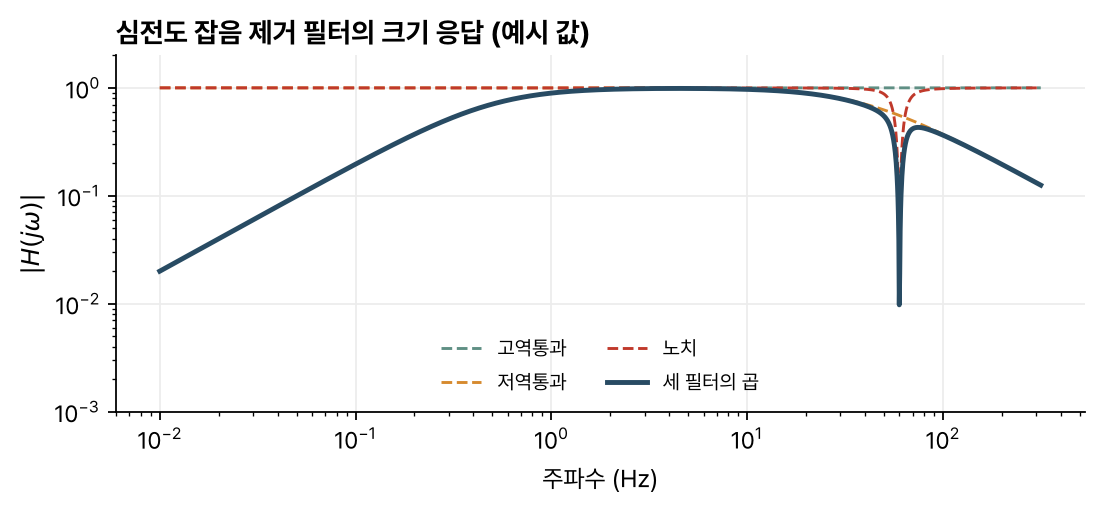
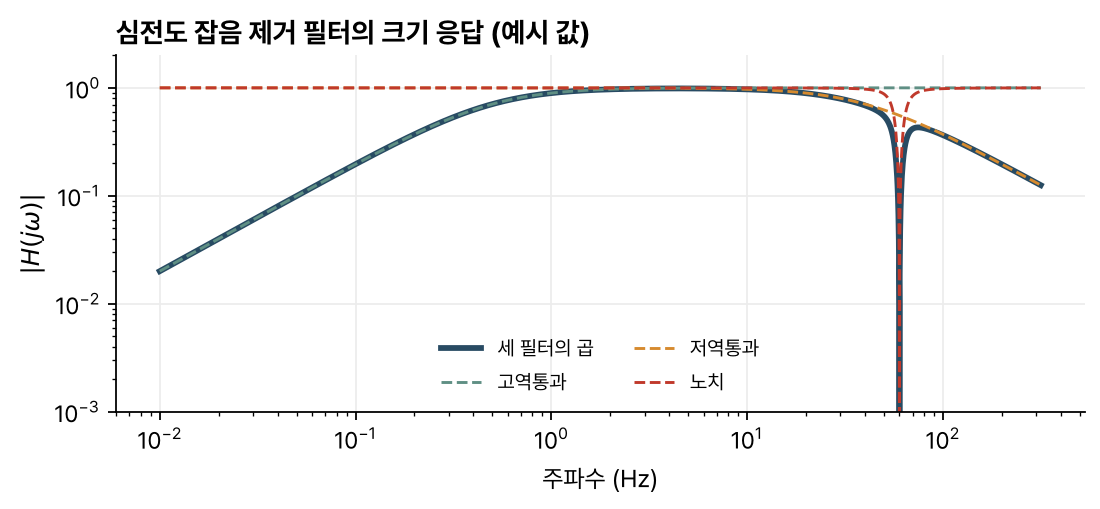
Fix review findings in 6.003 Fourier applications note
Claude-Session: https://claude.ai/code/session_01DRUnFxFn4g3T7a1hqi5YWp

diff --git a/scripts/figures/fourier_applications.py b/scripts/figures/fourier_applications.py
@@ -1,8 +1,8 @@
 """MIT 6.003 푸리에 변환의 응용 문서의 그림.
 
 RC 저역통과 필터에 사각파를 넣은 출력을 푸리에 급수로 계산하고, 심전도 잡음 제거용
-필터(고역통과 + 저역통과 + 노치)의 크기 응답을 그린다. 필터의 차단 주파수와 노치의
-감쇠는 예로 정한 값이다(고역 0.5 Hz, 저역 40 Hz, 노치 60 Hz). 값은 모두 직접 계산했다.
+필터(고역통과 + 저역통과 + 노치)의 크기 응답을 그린다. 고역 0.5 Hz, 저역 40 Hz 차단 주파수와
+노치의 폭(Q = 5)은 예로 정한 값이고, 노치 주파수 60 Hz는 강의 자료를 따른다. 값은 모두 직접 계산했다.
 """
 
 import numpy as np
@@ -32,17 +32,18 @@ fig.tight_layout()
 save(fig, ARTICLE, "rc-square-wave.png")
 
 # 심전도 필터의 크기 응답
-f = np.logspace(-2, 2.5, 2000)
+f = np.sort(np.append(np.logspace(-2, 2.5, 2000), 60.0))
 s = 2j * np.pi * f
 wh, wl, wn = 2 * np.pi * 0.5, 2 * np.pi * 40, 2 * np.pi * 60
 hp = s / (s + wh)
 lp = wl / (s + wl)
 notch = (s**2 + wn**2) / (s**2 + (wn / 5) * s + wn**2)
 fig, ax = plt.subplots(figsize=(7, 3.3))
+floor = 1e-4
+ax.loglog(f, np.maximum(np.abs(hp * lp * notch), floor), color=BLUE, lw=2.6, label="세 필터의 곱")
 ax.loglog(f, np.abs(hp), color=TEAL, lw=1.3, ls="--", label="고역통과")
 ax.loglog(f, np.abs(lp), color=ORANGE, lw=1.3, ls="--", label="저역통과")
-ax.loglog(f, np.abs(notch), color=RED, lw=1.3, ls="--", label="노치")
-ax.loglog(f, np.abs(hp * lp * notch), color=BLUE, lw=2.2, label="세 필터의 곱")
+ax.loglog(f, np.maximum(np.abs(notch), floor), color=RED, lw=1.3, ls="--", label="노치")
 ax.set_ylim(1e-3, 2)
 ax.set_xlabel("주파수 (Hz)")
 ax.set_ylabel("$|H(j\\omega)|$")

diff --git a/content/courses/mit-6003/fourier-applications.md b/content/courses/mit-6003/fourier-applications.md
@@ -39,7 +39,7 @@ $$
 
 입력으로 $\pm\frac12$를 오가는 주기 $T$의 사각파를 넣는다. 사각파의 [[fourier-series|푸리에 급수]] 계수는 홀수 $k$에서 $a_k = \frac{1}{j\pi k}$, 짝수 $k$에서 0이고, 기본 주파수는 $\omega_0 = 2\pi/T$다. 출력의 계수는 $a_k H(jk\omega_0)$이다.
 
-- $\omega_0 \ll 1/RC$: 대부분의 고조파가 통과대역에 있어 출력이 사각파와 비슷하다. 모서리만 조금 둥글다.
+- $\omega_0 \ll 1/RC$: 진폭이 큰 낮은 고조파가 통과대역에 있어 출력이 사각파와 비슷하다. 모서리만 조금 둥글다.
 - $\omega_0 \approx 1/RC$: 높은 고조파가 줄어 모서리가 지수 곡선으로 바뀐다.
 - $\omega_0 \gg 1/RC$: 모든 고조파가 $1/k\omega_0 RC$로 줄고 위상이 $-\pi/2$ 가까이 밀려 출력이 작은 삼각파에 가까워진다. 이 대역에서 $H(j\omega) \approx 1/j\omega RC$이므로 RC 회로는 적분기처럼 동작한다(강의 자료 밖의 설명).
 
@@ -48,16 +48,19 @@ $$
 
 ## 심전도 잡음 제거
 
-심전도는 심장이 만드는 전위를 가슴 표면에서 잰 기록이다. 피부의 전극은 심장 신호 말고도 다른 전기 신호를 함께 잡는다. 강의 자료는 약 60초 길이의 심전도 기록을 푸리에 변환해 성분을 셋으로 나눈다.
+심전도는 심장이 만드는 전위를 가슴 표면에서 잰 기록이다. 피부의 전극은 심장 신호 말고도 다른 전기 신호를 함께 잡는다. 강의 자료는 약 60초 길이의 심전도 기록을 푸리에 변환해 스펙트럼에 네 영역을 표시한다.
 
-- 낮은 주파수 잡음: 기준선이 천천히 흔들리는 성분
-- 심장 신호: 그 사이 대역
-- 높은 주파수 잡음: 넓은 대역의 잡음과 60 Hz 전원 성분
+- 낮은 주파수 잡음
+- 심장 신호
+- 높은 주파수 잡음
+- 60 Hz 성분
 
-이에 맞춰 낮은 주파수를 막는 고역통과 필터, 높은 주파수를 막는 저역통과 필터, 60 Hz 하나를 막는 **노치 필터**를 잇는다. 극점과 영점으로 보면 고역통과 필터는 원점의 영점과 음의 실수축 위 원점 가까운 극점이다. 저역통과 필터는 원점에서 먼 음의 실수축 위 극점이다. 노치 필터는 $j\omega$축 위 $\pm j2\pi\cdot 60$의 영점 한 쌍과, 그 바로 왼쪽의 극점 한 쌍이다. 영점이 $j\omega$축 위에 있어 그 주파수의 크기가 0이 되고, 가까운 극점이 다른 주파수의 크기를 1 근처로 되돌린다(극점과 영점의 위치에 대한 설명은 강의 자료 밖의 정리).
+낮은 주파수 잡음은 기준선이 천천히 흔들리는 성분이고 60 Hz 성분은 전원에서 온다는 설명은 강의 자료 밖의 내용이다.
+
+이에 맞춰 낮은 주파수를 막는 고역통과 필터, 높은 주파수를 막는 저역통과 필터, 60 Hz 하나를 막는 **노치 필터**를 잇는다. 강의 자료는 극점과 영점을 세 필터에 나눠 표시한다. 고역통과 필터는 원점의 영점과 음의 실수축 위 원점 가까운 극점이다. 저역통과 필터는 원점에서 먼 음의 실수축 위 극점이다. 노치 필터는 $j\omega$축 위 $\pm j2\pi\cdot 60$의 영점 한 쌍과, 그 왼쪽 가까이에 놓인 극점 한 쌍이다. 영점이 $j\omega$축 위에 있어 그 주파수의 크기가 0이 되고, 가까운 극점이 다른 주파수의 크기를 1 근처로 되돌린다(각 근의 구체적인 위치와 역할 설명은 강의 자료 밖의 정리이고, 강의 자료의 그림에는 겹근 표시가 있다).
 
 ![[../../images/fourier-applications/ecg-filter.png]]
-*그림 2. 고역통과(1차, 0.5 Hz), 저역통과(1차, 40 Hz), 60 Hz 노치 필터와 세 필터를 곱한 전체 필터의 크기 응답. 차단 주파수와 노치의 폭은 예로 정한 값이고, 강의 자료의 필터 값과 다르다. 노치 필터의 크기는 60 Hz에서 0이다. 직접 계산한 값이다.*
+*그림 2. 고역통과(1차, 0.5 Hz), 저역통과(1차, 40 Hz), 60 Hz 노치 필터와 세 필터를 곱한 전체 필터의 크기 응답. 차단 주파수와 노치의 폭은 강의 자료의 필터를 옮긴 것이 아니라 예로 정한 값이다. 노치 필터의 크기는 60 Hz에서 0이다. 직접 계산한 값이다.*
 
 ## 회절
 
@@ -69,11 +72,11 @@ $$
 
 먼 곳에는 점이 주기적으로 늘어선 무늬가 생긴다.
 
-강의 자료는 CD와 DVD로 이 식을 쓴다. 파장 500 nm의 레이저 포인터를 CD에 비추고 3 ft 떨어진 화면에서 첫 번째 점이 1 ft 옆에 생기면 $\tan\theta = 1/3$, $\theta \approx 0.32$, $\sin\theta \approx 0.31$이다. 트랙 간격은 $D = \lambda/\sin\theta \approx 1613$ nm로 규격값 1600 nm에 가깝다. DVD는 1 ft 떨어진 화면에서 1 ft 옆에 점이 생겨 $\theta \approx 0.78$, $\sin\theta \approx 0.71$이고, $D \approx 704$ nm로 규격값 740 nm에 가깝다. DVD의 트랙 간격은 CD의 약 절반이다. 반올림하지 않은 $\sin\theta$를 쓰면 CD는 약 1581 nm, DVD는 약 707 nm다(직접 계산한 값). 강의 자료는 이 예를 먼 곳의 거시적인 무늬에서 보이지 않는 미세 구조의 정보를 얻는 예로 든다.
+강의 자료는 CD와 DVD로 이 식을 쓴다. 파장 500 nm의 레이저 포인터를 CD에 비추고 3 ft 떨어진 화면에서 첫 번째 점이 1 ft 옆에 생기면 $\tan\theta = 1/3$, $\theta \approx 0.32$, $\sin\theta \approx 0.31$이다. 트랙 간격은 $D = \lambda/\sin\theta \approx 1613$ nm로 규격값 1600 nm에 가깝다. DVD는 1 ft 떨어진 화면에서 1 ft 옆에 점이 생겨 $\theta \approx 0.78$, $\sin\theta \approx 0.71$이고, $D \approx 704$ nm로 규격값 740 nm에 가깝다. DVD의 트랙 간격은 CD의 약 절반이다. 반올림하지 않은 $\sin\theta$를 쓰면 CD는 약 1581 nm, DVD는 약 707 nm다(직접 계산한 값). 강의 자료는 이 실험으로 먼 곳의 거시적인 무늬에서 보이지 않는 미세 구조의 정보를 얻을 수 있음을 보인다.
 
 ## X선 결정학
 
-산란체가 격자보다 복잡하면 각도 $\theta$에서 본 빛에는 물체의 모든 부분이 기여한다. 위치 $x$에서 산란된 빛은 원점에서 산란된 빛보다 $\phi = -2\pi x\sin\theta/\lambda$만큼 위상이 늦다. 물체의 산란 분포를 $f(x)$라 하면 각도 $\theta$의 빛은
+산란체가 격자보다 복잡하면 각도 $\theta$에서 본 빛에는 물체의 모든 부분이 기여한다. 위치 $x$에서 산란된 빛은 원점에서 산란된 빛보다 위상이 $2\pi x\sin\theta/\lambda$만큼 늦어, 상대 위상은 $\phi = -2\pi x\sin\theta/\lambda$다. 물체의 산란 분포를 $f(x)$라 하면 각도 $\theta$의 빛은
 
 $$
 F(\theta) = \int f(x)e^{-j2\pi x\sin\theta/\lambda}\,dx
@@ -91,17 +94,17 @@ $$
 x(t) = \sum_{k=-\infty}^{\infty}\delta(t - kT) \quad\Longleftrightarrow\quad X(j\omega) = \sum_{k=-\infty}^{\infty}\frac{2\pi}{T}\,\delta\!\left(\omega - k\frac{2\pi}{T}\right)
 $$
 
-먼 곳의 무늬는 간격이 $2\pi/D$에 비례하는 점의 열이고, 격자 간격이 좁을수록 점 사이가 넓다.
+먼 곳의 무늬는 $\omega$ 축에서 간격 $2\pi/D$(각도로는 $\sin\theta$ 간격 $\lambda/D$)인 점의 열이고, 격자 간격이 좁을수록 점 사이가 넓다.
 
-강의 자료는 이 관계의 예로 Franklin과 Gosling이 1953년에 발표한 DNA의 X선 회절 사진을 든다. 강의 자료의 해석은 이렇다. 높은 주파수 쪽의 띠는 염기쌍이 반복되는 간격 $b$에 대응하고 $1/b$ 위치에 나타난다. 낮은 주파수 쪽의 띠는 더 긴 반복 간격 $h$에 대응하고, 띠의 기울기는 그 반복 구조의 기울기에 대응하며, 강의 자료는 이 기울어진 반복 구조를 이중 나선으로 해석한다.
+강의 자료는 이 관계의 예로 Franklin과 Gosling이 1953년에 발표한 DNA의 X선 회절 사진을 들고 이렇게 해석한다. 높은 주파수 쪽의 띠는 염기쌍이 반복되는 간격 $b$에 대응하고 $1/b$ 위치에 나타난다. 낮은 주파수 쪽의 띠는 더 긴 반복 간격 $h$에 대응하고, 띠의 기울기는 그 반복 구조의 기울기에 대응하며, 강의 자료는 이 기울어진 반복 구조를 이중 나선으로 해석한다.
 
 ## 유의점
 
 - LTI 시스템은 새 주파수를 만들지 못한다. 출력에 입력에 없던 주파수가 있으면 시스템이 비선형이거나 시변이다(강의 자료 밖의 설명).
-- RC 회로를 적분기로 쓸 수 있는 범위는 $\omega \gg 1/RC$인 대역이고, 그 대역에서는 출력의 크기도 $1/\omega RC$로 함께 줄어든다.
+- RC 회로를 적분기로 쓸 수 있는 범위는 $\omega \gg 1/RC$인 대역이고, 그 대역에서는 출력의 크기도 $1/\omega RC$로 함께 줄어든다(강의 자료 밖의 설명).
 - 노치 필터의 영점을 $j\omega$축 위에 두면 그 주파수가 완전히 막힌다. 극점을 영점에서 멀리 두면 노치의 폭이 넓어져 주변의 심장 신호도 깎인다(강의 자료 밖의 설명).
-- 회절 무늬의 각도는 구조의 간격에 반비례한다. 간격이 좁은 DVD가 CD보다 더 큰 각도에 점을 만든다.
-- X선 회절로 재는 것은 빛의 세기여서 푸리에 변환의 위상 정보는 잃는다(강의 자료 밖의 내용).
+- 회절 무늬의 $\sin\theta$는 구조의 간격에 반비례한다. 간격이 좁은 DVD가 CD보다 더 큰 각도에 점을 만든다.
+- X선 회절은 빛의 세기를 재므로 푸리에 변환의 위상 정보를 잃는다(강의 자료 밖의 내용).
 
 ## 관련 개념
 
